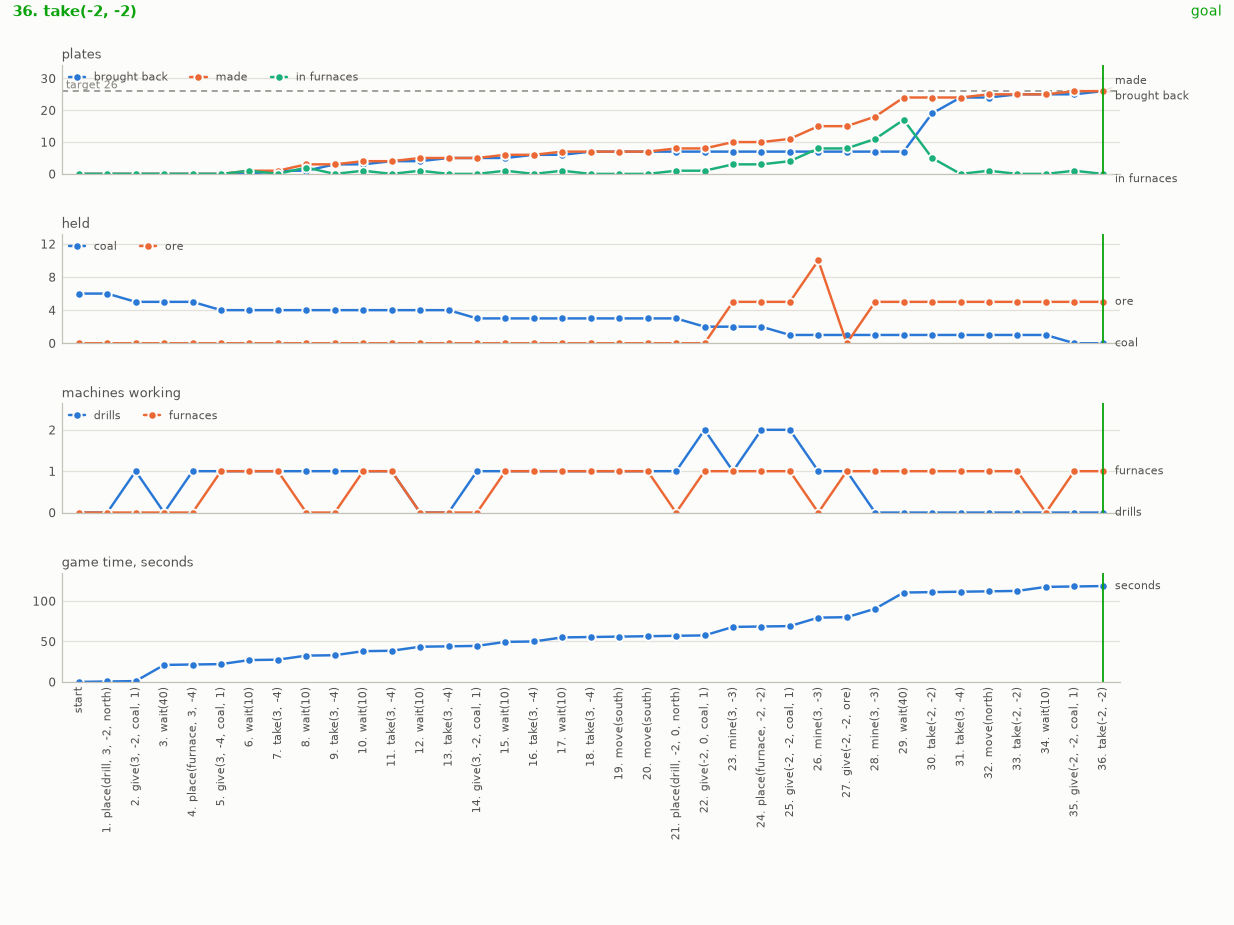
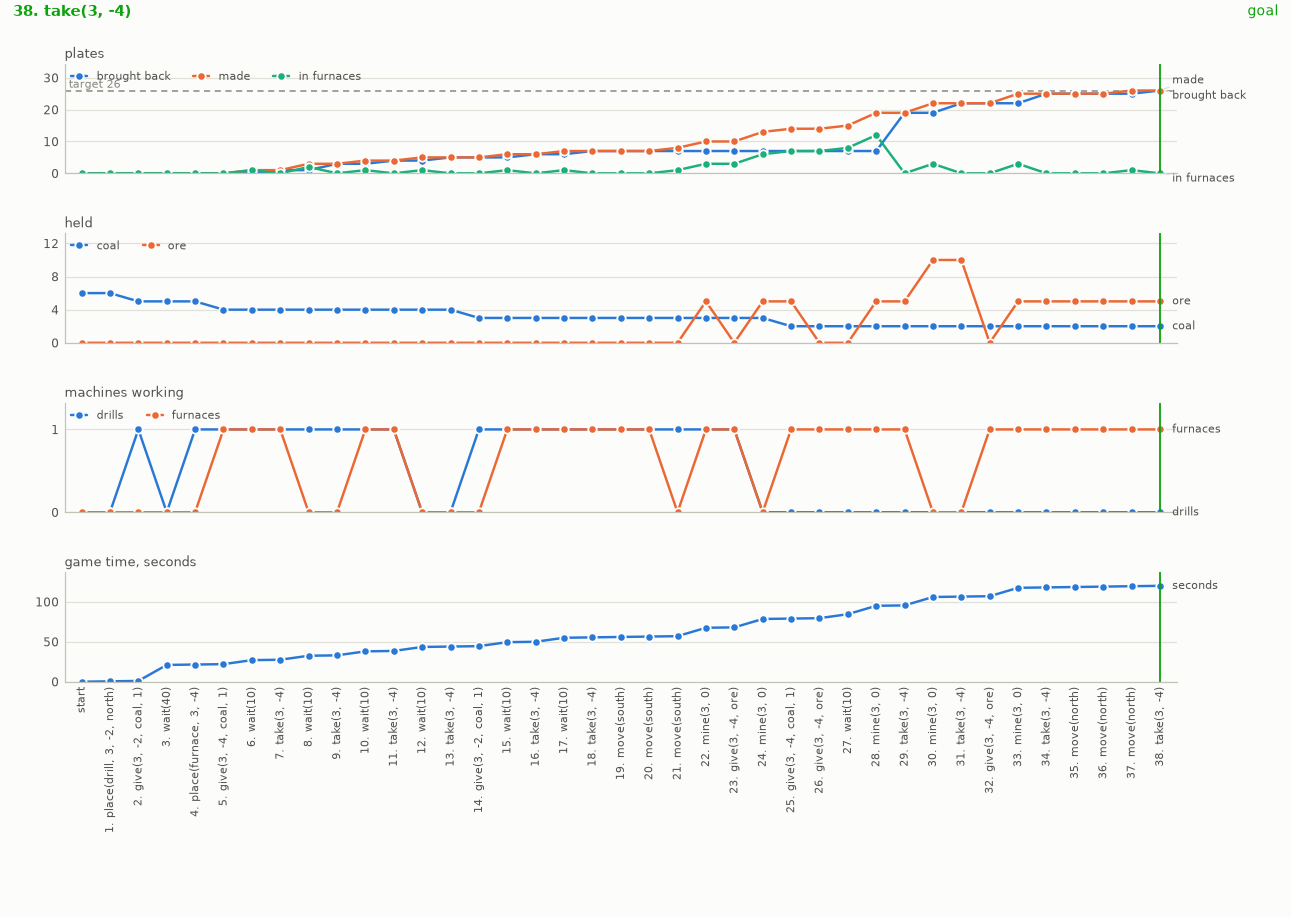
Run every environment's example and bring the pages in line
Each page's example was run as written on the installed simulators. The plans,
printed states and outcomes match their pages except for the factory, whose
plan is now thirty-eight decisions and is described as it runs, with its
render redrawn. The generator outputs for the crop, the network attack, the
grid and the water network are the ones the code returns. The other renders
are unchanged.

Covasim is capped below 4: Covasim 4 is a rewrite on Starsim whose simulation
API the epidemic environment does not drive, and a plain install picked it up.

Claude-Session: https://claude.ai/code/session_01CbUM6vVu3Q3wBSzyXUJpxb

diff --git a/docs/environments/factory.md b/docs/environments/factory.md
@@ -150,26 +150,25 @@ walls. The character starts at `(5.4, -11.6)` carrying two drills, two furnaces 
 with a target of 26 plates by a horizon of 7,200 ticks (two minutes). Fifteen decisions are open
 at the start: the eight walks, a drill on the one anchor within reach in each of its four
 facings, and the three waits. Dual BFWS, run as the benchmark runs `dual` (i.e., with the
-measure above and a width bound of 1000), returns a plan of thirty-six decisions:
-
+measure above and a width bound of 1000), returns a plan of thirty-eight decisions:
 
 ```
 place(drill, 3, -2, north), give(3, -2, coal, 1), wait(40), place(furnace, 3, -4),
 give(3, -4, coal, 1), wait(10), take(3, -4), wait(10), take(3, -4), wait(10), take(3, -4),
 wait(10), take(3, -4), give(3, -2, coal, 1), wait(10), take(3, -4), wait(10), take(3, -4),
-move(south), move(south), place(drill, -2, 0, north), give(-2, 0, coal, 1), mine(3, -3),
-place(furnace, -2, -2), give(-2, -2, coal, 1), mine(3, -3), give(-2, -2, ore), mine(3, -3),
-wait(40), take(-2, -2), take(3, -4), move(north), take(-2, -2), wait(10),
-give(-2, -2, coal, 1), take(-2, -2)
+move(south), move(south), move(south), mine(3, 0), give(3, -4, ore), mine(3, 0),
+give(3, -4, coal, 1), give(3, -4, ore), wait(10), mine(3, 0), take(3, -4), mine(3, 0),
+take(3, -4), give(3, -4, ore), mine(3, 0), take(3, -4), move(north), move(north), move(north),
+take(3, -4)
 ```
 
-The plan builds one line where the character stands, feeds each machine a single piece of coal
-at a time and empties the furnace as the plates come. It then walks south to build a second line
-with the last of the coal. Since the coal is short, it digs fifteen ore by hand and feeds it to
-the second furnace directly. It ends at tick 7,110 of the 7,200 with the 26 plates in hand, all
-six coal burnt and five ore still held. The scripted line the target came from builds both lines
-at once, fuels them and waits, in eighteen decisions. BFWS's plan is twice as long and reaches
-the same 26, which is what the goal asks.
+The plan builds one line where the character stands, a drill at `(3, -2)` and a furnace at
+`(3, -4)`, feeds each a single piece of coal at a time and empties the furnace as the plates
+come. When the drill's coal runs out it walks south to the patch, digs ore by hand at `(3, 0)`,
+five at a time, and carries it to the furnace, which it fuels once more. It walks back north and
+takes the last plate at tick 7,200, the horizon, with the 26 plates in hand, two coal and five
+ore still held, and the second drill and furnace never placed. The scripted line the target came
+from builds both lines at once, fuels them and waits, in eighteen decisions.
 
 ![BFWS solving factory instance 0](../renders/factory_chart.gif)
 

diff --git a/docs/environments/lemmings.md b/docs/environments/lemmings.md
@@ -151,8 +151,8 @@ assign(digger,0), assign(basher,0), assign(builder,1), wait, wait, wait, wait
 ```
 
 The first wait is forced, since nobody is out yet. The digger given to lemming 0 changes nothing.
-That lemming was turned back by the wall of two at the first platform's right end and is standing
-at the platform's left edge. It falls to its death in the next tick, as does the lemming behind it.
+That lemming was turned back by the wall of two at the first platform's right end and has walked
+off the platform's left edge. It falls to its death, as does the lemming behind it.
 The basher opens that wall, and the rest of the crowd walks through it. It goes along the platforms
 and down into a pit between a ledge and a wall at columns 13 to 17, where it is trapped. The second
 digger sinks a shaft from the pit's floor to the rock, and the second basher tunnels along the rock

diff --git a/docs/environments/power-grid.md b/docs/environments/power-grid.md
@@ -219,7 +219,7 @@ it, and returns it as a dict that `set_instance` accepts back:
 ```python
 env = PowerGridEnv()
 contingency = env.generate_instance(seed=7)     # or make("power_grid", seed=7)
-# {'chronic': 1, 'line': 9, 'offset': 122, 'rho_after_trip': 1.64, 'blackout_in': 2, 'solved_at': 1}
+# {'chronic': 0, 'line': 8, 'offset': 121, 'rho_after_trip': 1.12, 'blackout_in': 2, 'solved_at': 1}
 state, info = env.reset()
 ```
 

diff --git a/docs/environments/water-distribution.md b/docs/environments/water-distribution.md
@@ -229,7 +229,7 @@ returns it as a dict that `set_instance` accepts back:
 ```python
 env = WaterNetworkEnv()
 scenario = env.generate_instance(seed=7)     # or make("water_network", seed=7)
-# {'network': 'Net3.inp', 'source': '61', 'baseline': 0.488, 'solved_at': 1}
+# {'network': 'Net3.inp', 'source': '169', 'baseline': 0.564628675779134, 'solved_at': 2}
 state, info = env.reset()
 ```
 

diff --git a/docs/environments/crop-management.md b/docs/environments/crop-management.md
@@ -247,7 +247,7 @@ selects it, and returns it as a dict that `set_instance` accepts back:
 ```python
 env = CropEnv()
 season = env.generate_instance(seed=7)     # or make("crop_management", seed=7)
-# {'year': 1988, 'sow': [4, 25], 'rainfed': 13616.5, 'reference': 14101.4}
+# {'year': 1986, 'sow': [4, 5], 'rainfed': 6758.3, 'reference': 8508.2}
 state, info = env.reset()
 ```
 

diff --git a/docs/environments/network-attack.md b/docs/environments/network-attack.md
@@ -246,7 +246,7 @@ returns it as a dict that `set_instance` accepts back:
 ```python
 env = EnvNASim()
 network = env.generate_instance(seed=7, hosts=8, services=4, num_os=3)
-# {'hosts': 8, 'services': 4, 'seed': 7, 'num_os': 3}
+# {'hosts': 8, 'services': 4, 'seed': 7, 'num_os': 3, 'solved_at': 7}
 state, info = env.reset()
 ```
 
